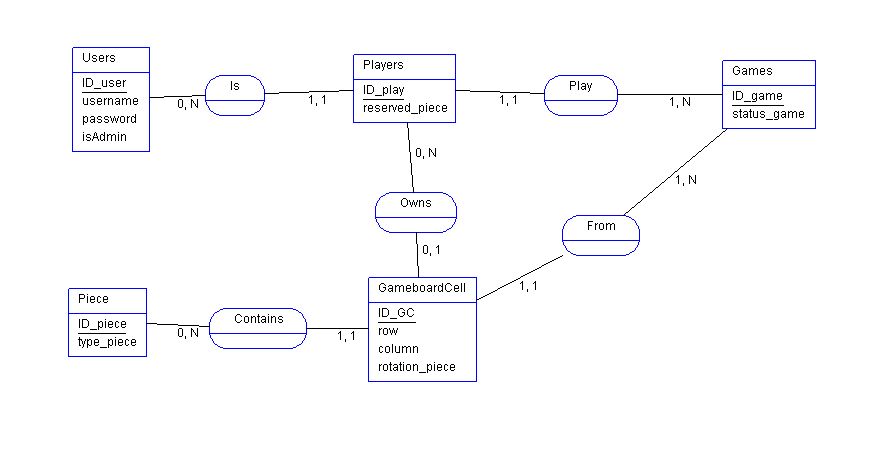
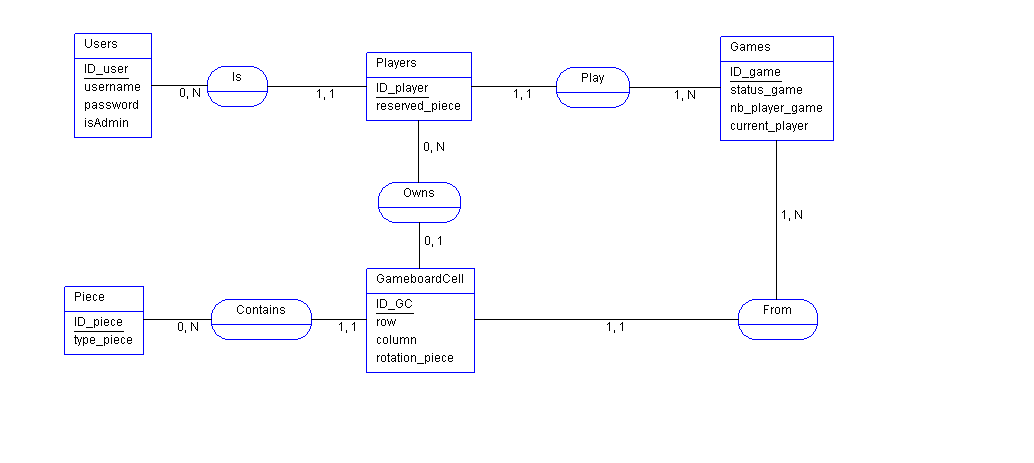
Added more information the game table of the data model

diff --git a/siamLogic.js b/siamLogic.js
@@ -2,7 +2,7 @@ const BOARD_SIZE=5;
 var selectedCell=null;
 
 
-// DATABASE NEED TO STORE THE SAME VALUE FOR ROTATIN AND PIECE AS THE VALUES IN THIS SCRIPT
+// DATABASE NEED TO STORE THE SAME VALUE FOR ROTATION AND PIECE AS THE VALUES IN THIS SCRIPT
 class Rotation{
     static UP=0;
     static RIGHT=1;
